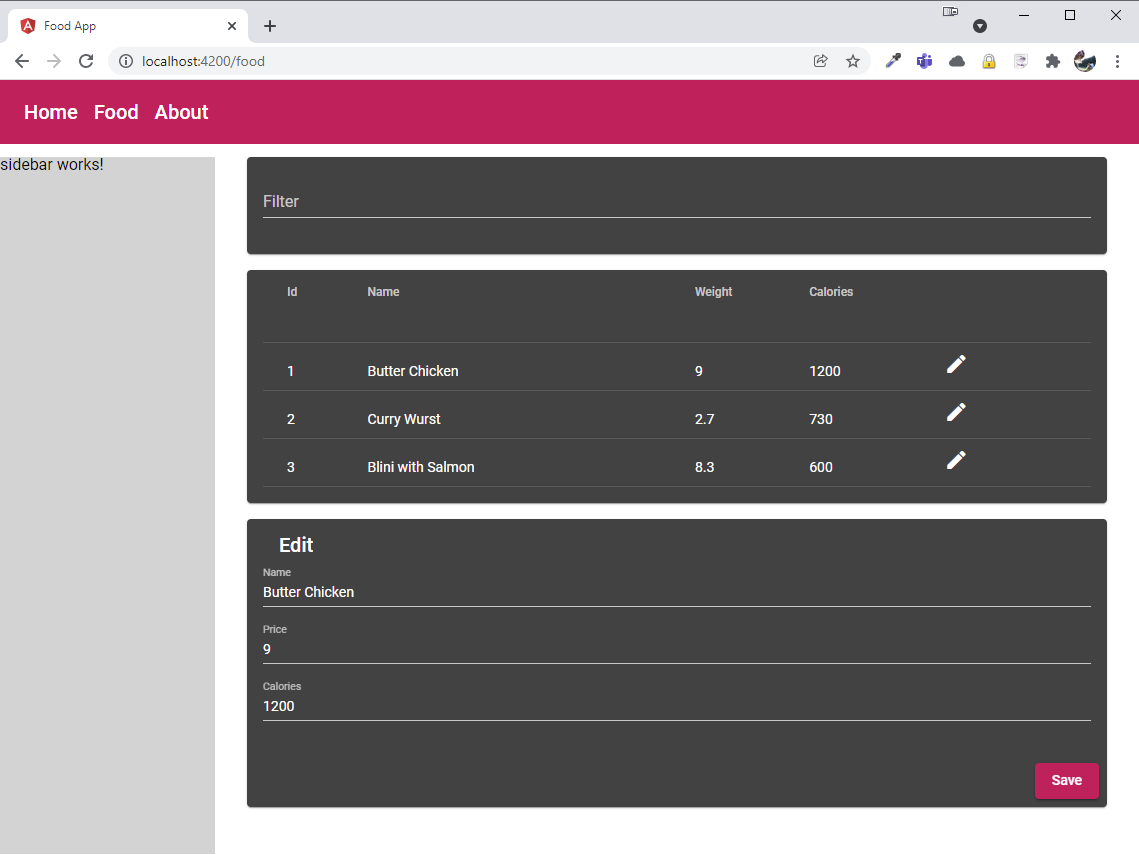
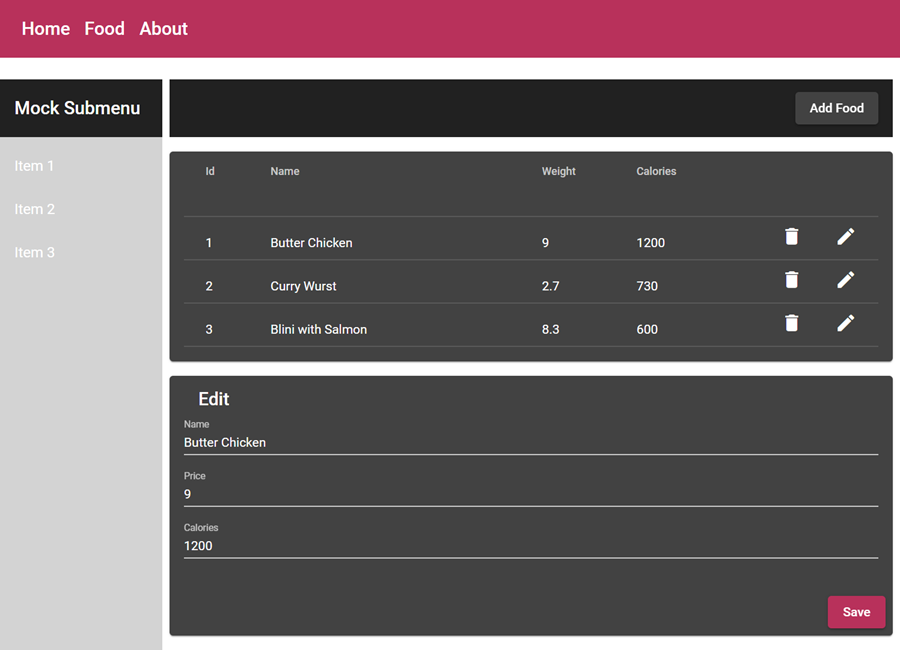
l3 updated

diff --git a/Labs/L3-UI/food-app/src/app/food/food-list/food-list.component.html b/Labs/L3-UI/food-app/src/app/food/food-list/food-list.component.html
@@ -1,12 +1,6 @@
-<mat-card>
-  <!-- <mat-form-field>
-    <input
-      matInput
-      (keyup)="applyFilter($event.target.value)"
-      placeholder="Filter"
-    />
-  </mat-form-field> -->
-</mat-card>
+<mat-toolbar>
+    <button mat-raised-button (click)="addFood()" color="primary">Add Food</button>
+</mat-toolbar>
 
 <mat-card>
   <table mat-table [dataSource]="dataSource">
@@ -30,11 +24,20 @@
       <td mat-cell *matCellDef="let element">{{ element.calories }}</td>
     </ng-container>
 
+    <ng-container matColumnDef="deleteItem">
+      <th mat-header-cell *matHeaderCellDef></th>
+      <td mat-cell *matCellDef="let element" class="icon-cell">
+        <a (click)="deleteFood(element)">
+          <mat-icon class="mat-18" matTooltip="Delete">delete</mat-icon>
+        </a>
+      </td>
+    </ng-container>
+
     <ng-container matColumnDef="editItem">
       <th mat-header-cell *matHeaderCellDef></th>
       <td mat-cell *matCellDef="let element" class="icon-cell">
         <a (click)="selectFood(element)">
-          <mat-icon class="mat-18" matTooltip="Bearbeiten">edit</mat-icon>
+          <mat-icon class="mat-18" matTooltip="Select">edit</mat-icon>
         </a>
       </td>
     </ng-container>

diff --git a/Labs/L3-UI/food-app/src/app/food/food-list/food-list.component.ts b/Labs/L3-UI/food-app/src/app/food/food-list/food-list.component.ts
@@ -20,8 +20,19 @@ export class FoodListComponent implements OnInit, OnChanges {
 
   @Input() food: FoodItem[] = [];
   @Output() foodSelected: EventEmitter<FoodItem> = new EventEmitter<FoodItem>();
+  @Output()
+  foodDeleted: EventEmitter<FoodItem> = new EventEmitter<FoodItem>();
+  @Output()
+  foodAdding: EventEmitter<FoodItem> = new EventEmitter<FoodItem>();
 
-  displayedColumns: string[] = ["id", "name", "price", "calories", "editItem"];
+  displayedColumns: string[] = [
+    "id",
+    "name",
+    "price",
+    "calories",
+    "deleteItem",
+    "editItem",
+  ];
   dataSource = new MatTableDataSource([]);
 
   ngOnInit() {}
@@ -36,5 +47,13 @@ export class FoodListComponent implements OnInit, OnChanges {
 
   selectFood(p: FoodItem) {
     this.foodSelected.emit(p);
+  }
+
+  deleteFood(item: FoodItem) {
+    this.foodDeleted.emit(item);
+  }
+
+  addFood() {
+    this.foodAdding.emit(new FoodItem());
   }
 }

diff --git a/Labs/L3-UI/food-app-l3-starter/src/app/app.module.ts b/Labs/L3-UI/food-app-l3-starter/src/app/app.module.ts
@@ -5,16 +5,16 @@ import { FormsModule } from "@angular/forms";
 import { AppRoutingModule } from "./app-routing.module";
 import { AppComponent } from "./app.component";
 import { NavbarComponent } from "./shared/navbar/navbar.component";
-import { SidebarComponent } from "./shared/sidebar/sidebar.component";
 import { MainComponent } from "./main/main.component";
 import { HomeComponent } from "./home/home.component";
 import { AboutComponent } from "./about/about.component";
+import { SidemenuComponent } from "./shared/sidemenu/sidemenu.component";
 
 @NgModule({
   declarations: [
     AppComponent,
     NavbarComponent,
-    SidebarComponent,
+    SidemenuComponent,
     MainComponent,
     HomeComponent,
     AboutComponent,

diff --git a/Labs/L3-UI/food-app-l3-starter/src/app/food/food-list/food-list.component.ts b/Labs/L3-UI/food-app-l3-starter/src/app/food/food-list/food-list.component.ts
@@ -1,4 +1,4 @@
-import { Component, OnInit, Input, Output, EventEmitter } from "@angular/core";
+import { Component, EventEmitter, Input, OnInit, Output } from "@angular/core";
 import { FoodItem } from "../food.model";
 
 @Component({
@@ -13,10 +13,16 @@ export class FoodListComponent implements OnInit {
   food: FoodItem[] = [];
   @Output()
   foodSelected: EventEmitter<FoodItem> = new EventEmitter<FoodItem>();
+  @Output()
+  foodDeleted: EventEmitter<FoodItem> = new EventEmitter<FoodItem>();
 
   ngOnInit() {}
 
-  selectFood(p: FoodItem) {
-    this.foodSelected.emit(p);
+  selectFood(item: FoodItem) {
+    this.foodSelected.emit(item);
+  }
+
+  deleteFood(item: FoodItem) {
+    this.foodDeleted.emit(item);
   }
 }

diff --git a/Labs/L3-UI/food-app-l3-starter/src/app/shared/navbar/navbar.component.ts b/Labs/L3-UI/food-app-l3-starter/src/app/shared/navbar/navbar.component.ts
@@ -1,4 +1,5 @@
 import { Component, OnInit } from "@angular/core";
+import { NavbarService } from "./navbar.service";
 import { NavItem } from "./nav-item.model";
 
 @Component({
@@ -7,15 +8,13 @@ import { NavItem } from "./nav-item.model";
   styleUrls: ["./navbar.component.scss"],
 })
 export class NavbarComponent implements OnInit {
-  constructor() {}
+  constructor(private ns: NavbarService) {}
 
-  items: NavItem[] = [];
+  navItems: NavItem[] = [];
 
   ngOnInit() {
-    this.items = [
-      { title: "Home", url: "/" },
-      { title: "Food", url: "/food" },
-      { title: "About", url: "/about" },
-    ];
+    this.ns.getItems().subscribe((data) => {
+      this.navItems = data;
+    });
   }
 }

diff --git a/Labs/L3-UI/food-app-l3-starter/src/app/food/food-edit/food-edit.component.html b/Labs/L3-UI/food-app-l3-starter/src/app/food/food-edit/food-edit.component.html
@@ -1,15 +1,18 @@
-<div class="form" >
-  <div >
+<div class="form">
+  <div class="row">
     <label>Name</label>
     <input type="text" [(ngModel)]="food.name" />
   </div>
-  <div >
+  <div class="row">
     <label>Price</label>
     <input type="number" [(ngModel)]="food.price" />
   </div>
-  <div  >
+  <div class="row">
     <label>Calories</label>
     <input type="number" [(ngModel)]="food.calories" />
   </div>
-  <button (click)="doSave()">Save</button>
+  <div class="row">
+    <label>&nbsp;</label>
+    <button (click)="doSave()">Save</button>
+  </div>
 </div>

diff --git a/Labs/L3-UI/food-app-l3-starter/src/app/app.component.scss b/Labs/L3-UI/food-app-l3-starter/src/app/app.component.scss
@@ -1,20 +1,22 @@
-.navbar {
-  background-color: lightblue;
-  height: 10vh;
+.navbar{
+  background-color: lavender;
+  height: 75px
 }
 
-.sidebar {
-  background-color: lightgrey;
-  width: 20vw;
+.sidebar{
+  background-color: yellow;
+  min-width: 200px;
+  padding: 1rem;
 }
 
-.main {
-  width: 80vw;
-  margin: 2rem;
+.main{
+  background-color: whitesmoke;
+  width: calc(100vw - 200px);
+  padding: 1rem;
 }
 
-.mainrow {
+.mainrow{
   display: flex;
   flex-direction: row;
-  height: 90vh;
+  height: calc(100vh - 150px);
 }

diff --git a/Labs/L3-UI/food-app/src/app/food/food-container/food-container.component.html b/Labs/L3-UI/food-app/src/app/food/food-container/food-container.component.html
@@ -1,10 +1,14 @@
-<app-food-list
-  [food]="food"
-  (foodSelected)="selectFood($event)"
-></app-food-list>
+<div>
+  <app-food-list
+    [food]="food"
+    (foodSelected)="selectFood($event)"
+    (foodDeleted)="deleteFood($event)"
+    (foodAdding)="addFood($event)"
+  ></app-food-list>
 
-<app-food-edit
-  *ngIf="selected"
-  [food]="selected"
-  (saveFood)="foodSaved($event)"
-></app-food-edit>
+  <app-food-edit
+    *ngIf="selected"
+    [food]="selected"
+    (saveFood)="foodSaved($event)"
+  ></app-food-edit>
+</div>

diff --git a/Labs/L3-UI/food-app-l3-starter/src/app/food/food-container/food-container.component.ts b/Labs/L3-UI/food-app-l3-starter/src/app/food/food-container/food-container.component.ts
@@ -21,6 +21,10 @@ export class FoodContainerComponent implements OnInit {
     this.selected = { ...f };
   }
 
+  deleteFood(item: FoodItem) {
+    console.log("mock deleting ", item);
+  }
+
   foodSaved(item: FoodItem) {
     const clone = Object.assign([], this.food) as Array<FoodItem>;
     let idx = clone.findIndex((c) => c.id == item.id);
@@ -30,5 +34,6 @@ export class FoodContainerComponent implements OnInit {
       clone.push(item);
     }
     this.food = clone;
+    this.selected = null;
   }
 }

diff --git a/Labs/L3-UI/food-app-l3-starter/src/app/food/food-list/food-list.component.html b/Labs/L3-UI/food-app-l3-starter/src/app/food/food-list/food-list.component.html
@@ -4,6 +4,8 @@
       <th>Name</th>
       <th>Price</th>
       <th>Calories</th>
+      <th>&nbsp;</th>
+      <th>&nbsp;</th>
     </tr>
   </thead>
   <tbody>
@@ -11,7 +13,8 @@
       <td>{{ p.name }}</td>
       <td>{{ p.price }}</td>
       <td>{{ p.calories }}</td>
-      <td style="cursor: pointer;"><a (click)="selectFood(p)">Select</a></td>
+      <td><a (click)="deleteFood(p)">Delete</a></td>
+      <td><a (click)="selectFood(p)">Select</a></td>
     </tr>
   </tbody>
 </table>

diff --git a/Labs/L3-UI/food-app-l3-starter/src/app/app.component.html b/Labs/L3-UI/food-app-l3-starter/src/app/app.component.html
@@ -1,9 +1,13 @@
-<div class="navbar">
-  <app-navbar></app-navbar>
-</div>
-<div class="mainrow">
-  <div class="sidebar">
-    <app-sidebar></app-sidebar>
+<div>
+  <div class="navbar">
+    <app-navbar></app-navbar>
   </div>
-  <div class="main"><router-outlet></router-outlet></div>
+  <div class="mainrow">
+    <div class="sidebar">
+      <app-sidemenu></app-sidemenu>
+    </div>
+    <div class="main">
+      <router-outlet></router-outlet>      
+    </div>
+  </div>
 </div>

diff --git a/Labs/L3-UI/food-app/src/app/food/food-container/food-container.component.ts b/Labs/L3-UI/food-app/src/app/food/food-container/food-container.component.ts
@@ -21,6 +21,14 @@ export class FoodContainerComponent implements OnInit {
     this.selected = { ...f };
   }
 
+  deleteFood(item: FoodItem) {
+    console.log("mock deleting ", item);
+  }
+
+  addFood(item: FoodItem) {
+    this.selected = item;
+  }
+
   foodSaved(item: FoodItem) {
     const clone = Object.assign([], this.food) as Array<FoodItem>;
     let idx = clone.findIndex((c) => c.id == item.id);
